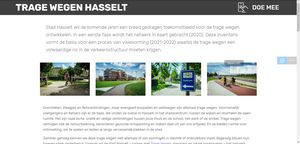
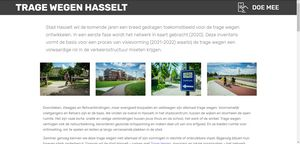
update_hokjes_25

Changed region(s): [[0.72, 0.4167, 0.87, 0.5278], [0.9, 0.3889, 0.99, 0.4722]]

diff --git a/index.html b/index.html
@@ -55,7 +55,7 @@
     </nav>
 </section>
 
-<section class="engine"><a href="https://mobirise.info/n">simple web templates</a></section><section class="mbr-section article content3 cid-rQbUgujYzw" id="content3-n">
+<section class="engine"><a href="https://mobirise.info/t">free amp template</a></section><section class="mbr-section article content3 cid-rQbUgujYzw" id="content3-n">
       
      
 
@@ -81,34 +81,34 @@
     <div class="container">
         
         
-        <div class="row mbr-gallery" data-toggle="modal" data-target="#sabqf7KXDQ">
+        <div class="row mbr-gallery" data-toggle="modal" data-target="#sgGLG81rXw">
             <div class="col-sm-6 col-md-4 col-lg-3 item gallery-image">
                 <div class="item-wrapper">
-                    <img class="w-100" src="assets/images/tragewegen-201908-ingedelee-199.jpg" alt="" data-slide-to="0" title="" data-target="#sabqf7KozF">
+                    <img class="w-100" src="assets/images/tragewegen-201908-ingedelee-199.jpg" alt="" data-slide-to="0" title="" data-target="#sgGLG82lTi">
                 </div>
             </div>
             <div class="col-sm-6 col-md-4 col-lg-3 item gallery-image">
                 <div class="item-wrapper">
-                    <img class="w-100" src="assets/images/tragewegen-201908-ingedelee-122.jpg" alt="" data-slide-to="1" title="" data-target="#sabqf7KozF">
+                    <img class="w-100" src="assets/images/tragewegen-201908-ingedelee-122.jpg" alt="" data-slide-to="1" title="" data-target="#sgGLG82lTi">
                 </div>
             </div>
             <div class="col-sm-6 col-md-4 col-lg-3 item gallery-image">
                 <div class="item-wrapper">
-                    <img class="w-100" src="assets/images/tragewegen-201908-ingedelee-131.jpg" alt="" data-slide-to="2" title="" data-target="#sabqf7KozF">
+                    <img class="w-100" src="assets/images/tragewegen-201908-ingedelee-131.jpg" alt="" data-slide-to="2" title="" data-target="#sgGLG82lTi">
                 </div>
             </div><div class="col-sm-6 col-md-4 col-lg-3 item gallery-image">
                 <div class="item-wrapper">
-                    <img class="w-100" src="assets/images/tragewegen-201908-ingedelee-125.jpg" alt="" data-slide-to="3" title="" data-target="#sabqf7KozF">
+                    <img class="w-100" src="assets/images/tragewegen-201908-ingedelee-125.jpg" alt="" data-slide-to="3" title="" data-target="#sgGLG82lTi">
                 </div>
             </div>
             
         </div>
 
-        <div class="modal mbr-slider fade" tabindex="-1" role="dialog" aria-hidden="true" id="sabqf7KXDQ">
+        <div class="modal mbr-slider fade" tabindex="-1" role="dialog" aria-hidden="true" id="sgGLG81rXw">
             <div class="modal-dialog" role="document">
                 <div class="modal-content">
                     <div class="modal-body">
-                        <div class="carousel slide" data-ride="carousel" id="sabqf7KozF">
+                        <div class="carousel slide" data-ride="carousel" id="sgGLG82lTi">
                             <div class="carousel-inner">
                                 <div class="carousel-item active">
                                     <img class="d-block w-100" src="assets/images/tragewegen-201908-ingedelee-199.jpg" alt="">
@@ -124,18 +124,18 @@
                                 
                             </div>
                             <ol class="carousel-indicators">
-                                <li data-slide-to="0" class="active" data-target="#sabqf7KozF"></li><li data-slide-to="1" class="active" data-target="#sabqf7KozF"></li>
-                                <li data-slide-to="2" data-target="#sabqf7KozF"></li>
-                                <li data-slide-to="3" data-target="#sabqf7KozF"></li>
+                                <li data-slide-to="0" class="active" data-target="#sgGLG82lTi"></li><li data-slide-to="1" class="active" data-target="#sgGLG82lTi"></li>
+                                <li data-slide-to="2" data-target="#sgGLG82lTi"></li>
+                                <li data-slide-to="3" data-target="#sgGLG82lTi"></li>
                                 
                             </ol>
                             <a role="button" href="" class="close" data-dismiss="modal" aria-label="Close">
                             </a>
-                            <a class="carousel-control-prev carousel-control" role="button" data-slide="prev" href="#sabqf7KozF">
+                            <a class="carousel-control-prev carousel-control" role="button" data-slide="prev" href="#sgGLG82lTi">
                                 <span class="mbri-left mbr-iconfont" aria-hidden="true"></span>
                                 <span class="sr-only">Vorige</span>
                             </a>
-                            <a class="carousel-control-next carousel-control" role="button" data-slide="next" href="#sabqf7KozF">
+                            <a class="carousel-control-next carousel-control" role="button" data-slide="next" href="#sgGLG82lTi">
                                 <span class="mbri-right mbr-iconfont" aria-hidden="true"></span>
                                 <span class="sr-only">Volgende</span>
                             </a>
@@ -169,34 +169,34 @@
     <div class="container">
         
         
-        <div class="row mbr-gallery" data-toggle="modal" data-target="#sabqf7LpFU">
+        <div class="row mbr-gallery" data-toggle="modal" data-target="#sgGLG828uY">
             <div class="col-sm-6 col-md-4 col-lg-3 item gallery-image">
                 <div class="item-wrapper">
-                    <img class="w-100" src="assets/images/tragewegen-201908-ingedelee-90.jpg" alt="" data-slide-to="0" title="" data-target="#sabqf7LkOe">
+                    <img class="w-100" src="assets/images/tragewegen-201908-ingedelee-90.jpg" alt="" data-slide-to="0" title="" data-target="#sgGLG82yVs">
                 </div>
             </div><div class="col-sm-6 col-md-4 col-lg-3 item gallery-image">
                 <div class="item-wrapper">
-                    <img class="w-100" src="assets/images/tragewegen-201908-ingedelee-77.jpg" alt="" data-slide-to="1" title="" data-target="#sabqf7LkOe">
+                    <img class="w-100" src="assets/images/tragewegen-201908-ingedelee-77.jpg" alt="" data-slide-to="1" title="" data-target="#sgGLG82yVs">
                 </div>
             </div><div class="col-sm-6 col-md-4 col-lg-3 item gallery-image">
                 <div class="item-wrapper">
-                    <img class="w-100" src="assets/images/tragewegen-201908-ingedelee-170.jpg" alt="" data-slide-to="2" title="" data-target="#sabqf7LkOe">
+                    <img class="w-100" src="assets/images/tragewegen-201908-ingedelee-170.jpg" alt="" data-slide-to="2" title="" data-target="#sgGLG82yVs">
                 </div>
             </div>
             <div class="col-sm-6 col-md-4 col-lg-3 item gallery-image">
                 <div class="item-wrapper">
-                    <img class="w-100" src="assets/images/tragewegen-201908-ingedelee-163.jpg" alt="" data-slide-to="3" title="" data-target="#sabqf7LkOe">
+                    <img class="w-100" src="assets/images/tragewegen-201908-ingedelee-163.jpg" alt="" data-slide-to="3" title="" data-target="#sgGLG82yVs">
                 </div>
             </div>
             
             
         </div>
 
-        <div class="modal mbr-slider fade" tabindex="-1" role="dialog" aria-hidden="true" id="sabqf7LpFU">
+        <div class="modal mbr-slider fade" tabindex="-1" role="dialog" aria-hidden="true" id="sgGLG828uY">
             <div class="modal-dialog" role="document">
                 <div class="modal-content">
                     <div class="modal-body">
-                        <div class="carousel slide" data-ride="carousel" id="sabqf7LkOe">
+                        <div class="carousel slide" data-ride="carousel" id="sgGLG82yVs">
                             <div class="carousel-inner">
                                 <div class="carousel-item active">
                                     <img class="d-block w-100" src="assets/images/tragewegen-201908-ingedelee-90.jpg" alt="">
@@ -212,18 +212,18 @@
                                 
                             </div>
                             <ol class="carousel-indicators">
-                                <li data-slide-to="0" class="active" data-target="#sabqf7LkOe"></li>
-                                <li data-slide-to="1" data-target="#sabqf7LkOe"></li>
-                                <li data-slide-to="2" data-target="#sabqf7LkOe"></li>
-                                <li data-slide-to="3" data-target="#sabqf7LkOe"></li>
+                                <li data-slide-to="0" class="active" data-target="#sgGLG82yVs"></li>
+                                <li data-slide-to="1" data-target="#sgGLG82yVs"></li>
+                                <li data-slide-to="2" data-target="#sgGLG82yVs"></li>
+                                <li data-slide-to="3" data-target="#sgGLG82yVs"></li>
                             </ol>
                             <a role="button" href="" class="close" data-dismiss="modal" aria-label="Close">
                             </a>
-                            <a class="carousel-control-prev carousel-control" role="button" data-slide="prev" href="#sabqf7LkOe">
+                            <a class="carousel-control-prev carousel-control" role="button" data-slide="prev" href="#sgGLG82yVs">
                                 <span class="mbri-left mbr-iconfont" aria-hidden="true"></span>
                                 <span class="sr-only">Vorige</span>
                             </a>
-                            <a class="carousel-control-next carousel-control" role="button" data-slide="next" href="#sabqf7LkOe">
+                            <a class="carousel-control-next carousel-control" role="button" data-slide="next" href="#sgGLG82yVs">
                                 <span class="mbri-right mbr-iconfont" aria-hidden="true"></span>
                                 <span class="sr-only">Volgende</span>
                             </a>

diff --git a/page1.html b/page1.html
@@ -55,7 +55,7 @@
     </nav>
 </section>
 
-<section class="engine"><a href="https://mobirise.info/a">online web builder</a></section><section class="features2 cid-rQmQMGRh2Z" id="features2-2z">
+<section class="engine"><a href="https://mobirise.info/e">make your own site</a></section><section class="features2 cid-rQmQMGRh2Z" id="features2-2z">
 
     
 
@@ -160,7 +160,7 @@
         <div class="row justify-content-center">
             <div class="media-container-column col-lg-8" data-form-type="formoid">
                 <!---Formbuilder Form--->
[2 lines of base64/hex data omitted]
                     <div class="row">
                         <div hidden="hidden" data-form-alert="" class="alert alert-success col-12">Bedankt voor jouw enthousiasme en medewerking!</div>
                         <div hidden="hidden" data-form-alert-danger="" class="alert alert-danger col-12">
@@ -209,7 +209,7 @@
 
     <figure class="mbr-figure container">
         <div class="image-block" style="width: 100%;">
-            <img src="assets/images/deelgemeenten-hokjes-nr-update-24.png" width="1400" alt="Mobirise" title="">
+            <img src="assets/images/deelgemeenten-hokjes-nr-update-25.png" width="1400" alt="Mobirise" title="">
             
         </div>
     </figure>
